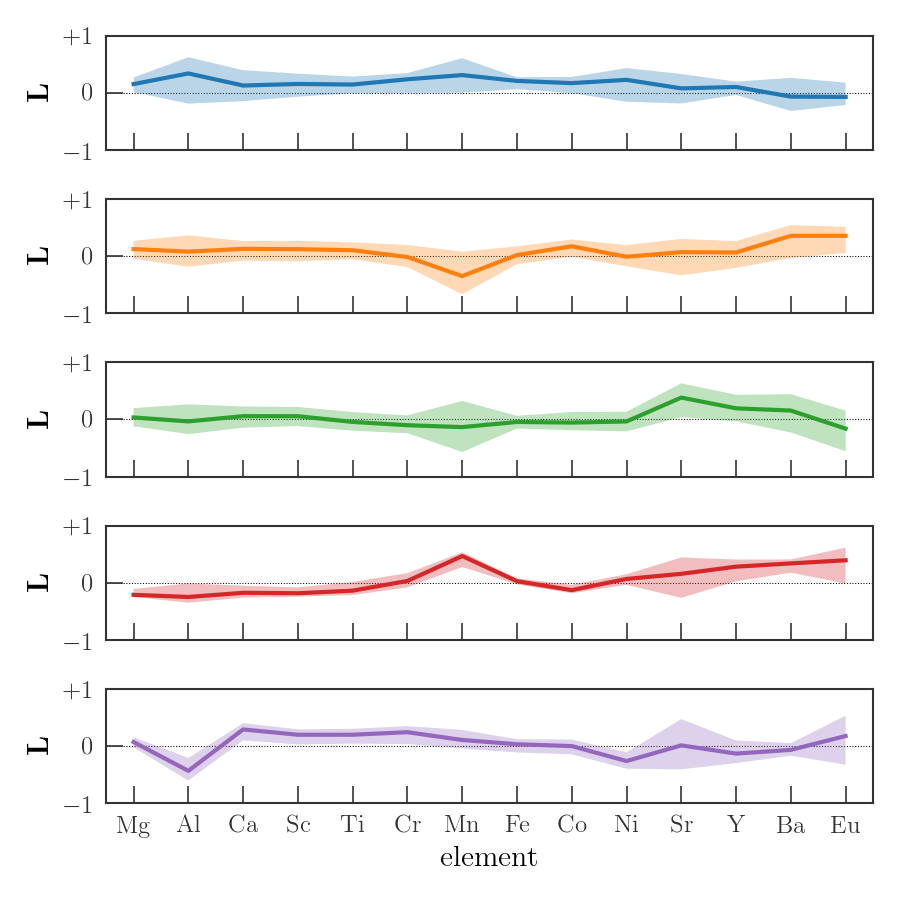
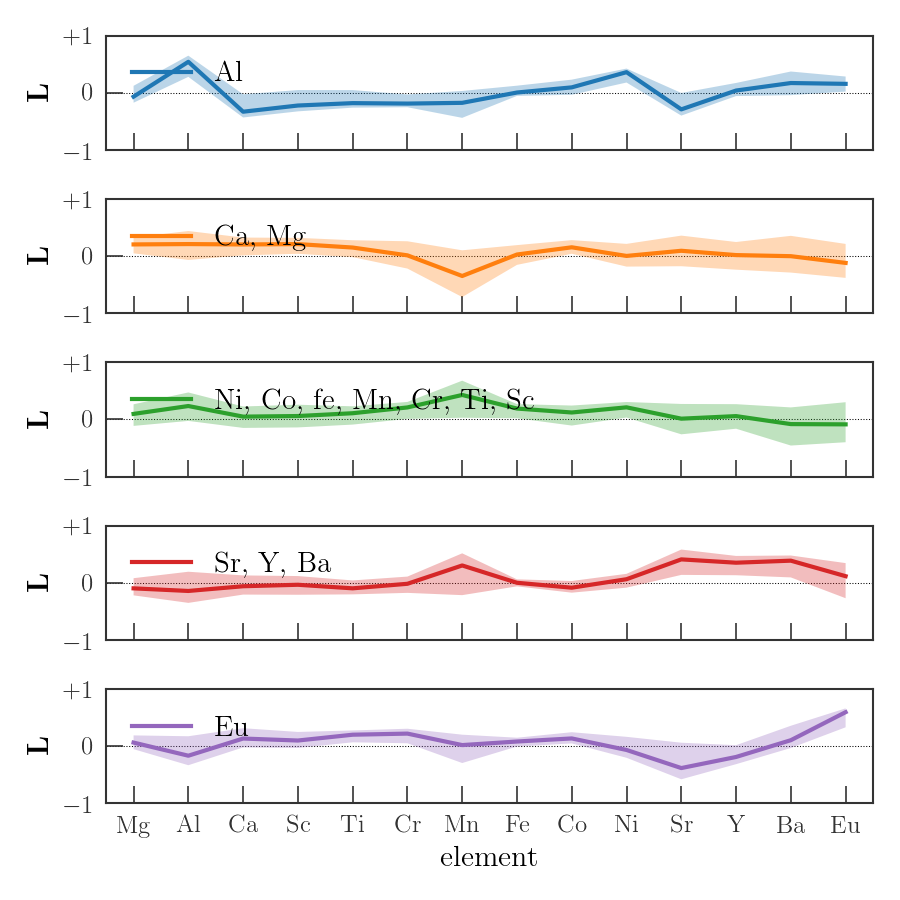
exp2 igures

diff --git a/article/experiments/exp2.py b/article/experiments/exp2.py
@@ -167,9 +167,11 @@ fig_factors_unrotated = mpl_utils.plot_factor_loads(A_est,
 
 # Set some groups that we will try to rotate to.
 astrophysical_grouping = [
-    ["al", "ca", "mg", "ni", "co", "fe", "mn", "cr", "ti", "sc"],
-    ["eu", "ba"],
-    ["sr", "y"],
+    ["al"],
+    ["ca", "mg"],
+    ["ni", "co", "fe", "mn", "cr", "ti", "sc"],
+    ["sr", "y", "ba"],
+    ["eu"],
 ]
 
 
@@ -179,22 +181,25 @@ for i, tes in enumerate(astrophysical_grouping):
         idx = label_names.index("{0}_h".format(te.lower()))
         A_astrophysical[idx, i] = 1.0
 
-#AL = linalg.cholesky(A_astrophysical.T @ A_astrophysical)
-#A_astrophysical = A_astrophysical @ linalg.solve(AL, np.eye(model.n_latent_factors))
+AL = linalg.cholesky(A_astrophysical.T @ A_astrophysical)
+A_astrophysical = A_astrophysical @ linalg.solve(AL, np.eye(model.n_latent_factors))
 load_labels=[
-  r"$\textrm{CCSN and others?}$",
-  r"$\textrm{s-process?}$",
-  r"$\textrm{r-process?}$"
-],
+  r"$\textrm{Al}$",
+  r"$\textrm{Ca, Mg}$",
+  r"$\textrm{Ni, Co, fe, Mn, Cr, Ti, Sc}$",
+  r"$\textrm{Sr, Y, Ba}$",
+  r"$\textrm{Eu}$",
+]
 
 np.random.seed(42)
 
 fig_factors_rotated = mpl_utils.plot_factor_loads(A_est, separate_axes=True,
                                                   target_loads=A_astrophysical,
-                                                  flip_loads=None,
+                                                  flip_loads=[1, 1, 1, 1, 1],
                                                   n_rotation_inits=100,
                                                   show_target_loads=False,
                                                   xlabel=xlabel,
+                                                  load_labels=load_labels,
                                                   xticklabels=xticklabels,
                                                   legend_kwds=dict(loc="upper left",
                                                                    fontsize=14.0))
